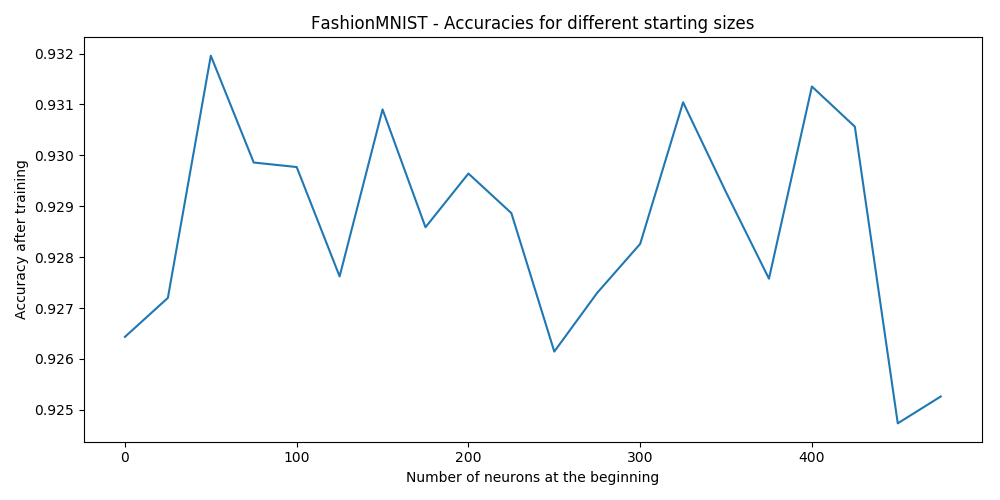
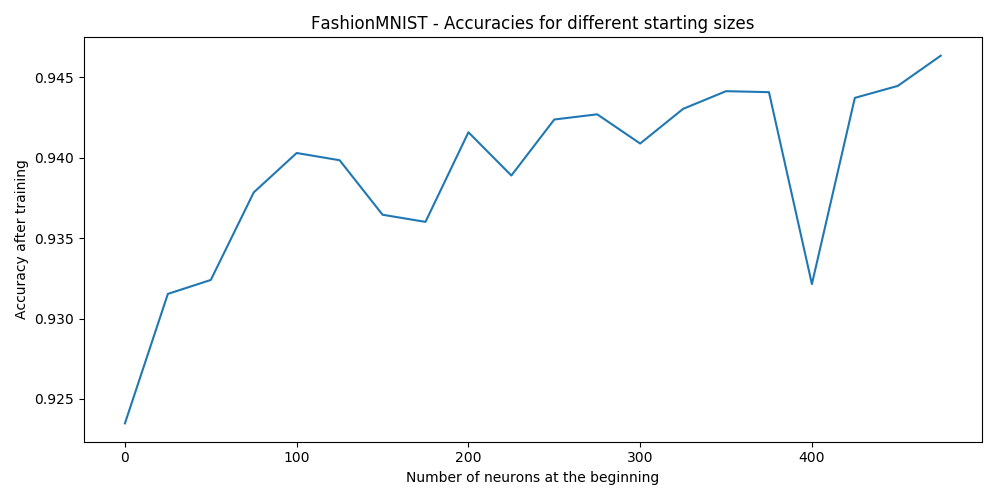
Fix BIG implementation error

diff --git a/simple_metricless.py b/simple_metricless.py
@@ -223,12 +223,12 @@ def benchmark_dataset(ds, l2_penalty=0.001, suffix='', test_train=False):
     plot_frontier(powers, data, get_accuracy([best_model], dl2)[0], ds.__name__, suffix)
 
 if __name__ == '__main__':
-    # benchmark_dataset(MNIST)
-    # benchmark_dataset(FashionMNIST)
+    benchmark_dataset(MNIST)
+    benchmark_dataset(FashionMNIST)
     # validate_plateau_hypothesis(MNIST)
     # validate_plateau_hypothesis2(MNIST)
-    # benchmark_dataset(MNIST, 0, '_without_penalty')
-    # benchmark_dataset(FashionMNIST, 0, '_without_penalty')
+    benchmark_dataset(MNIST, 0, '_without_penalty')
+    benchmark_dataset(FashionMNIST, 0, '_without_penalty')
     benchmark_dataset(MNIST, 0, '_without_penalty_training', True)
     benchmark_dataset(FashionMNIST, 0, '_without_penalty_training', True)
     pass

diff --git a/models/MNIST_1h_flexible.py b/models/MNIST_1h_flexible.py
@@ -20,7 +20,7 @@ class MNIST_1h_flexible(nn.Module):
         super(MNIST_1h_flexible, self).__init__()
         self.size = size
         self.k = wrap(Variable(torch.ones(1), requires_grad=False))
-        self.x_0 = nn.Parameter(wrap(torch.ones(1)))
+        self.x_0 = nn.Parameter(wrap(torch.ones(1) * x_0))
         self.hidden_layer = nn.Linear(28 * 28, size, bias=True)
         self.activation = nn.ReLU()
         self.range = wrap(Variable(torch.arange(0, size), requires_grad=False))
